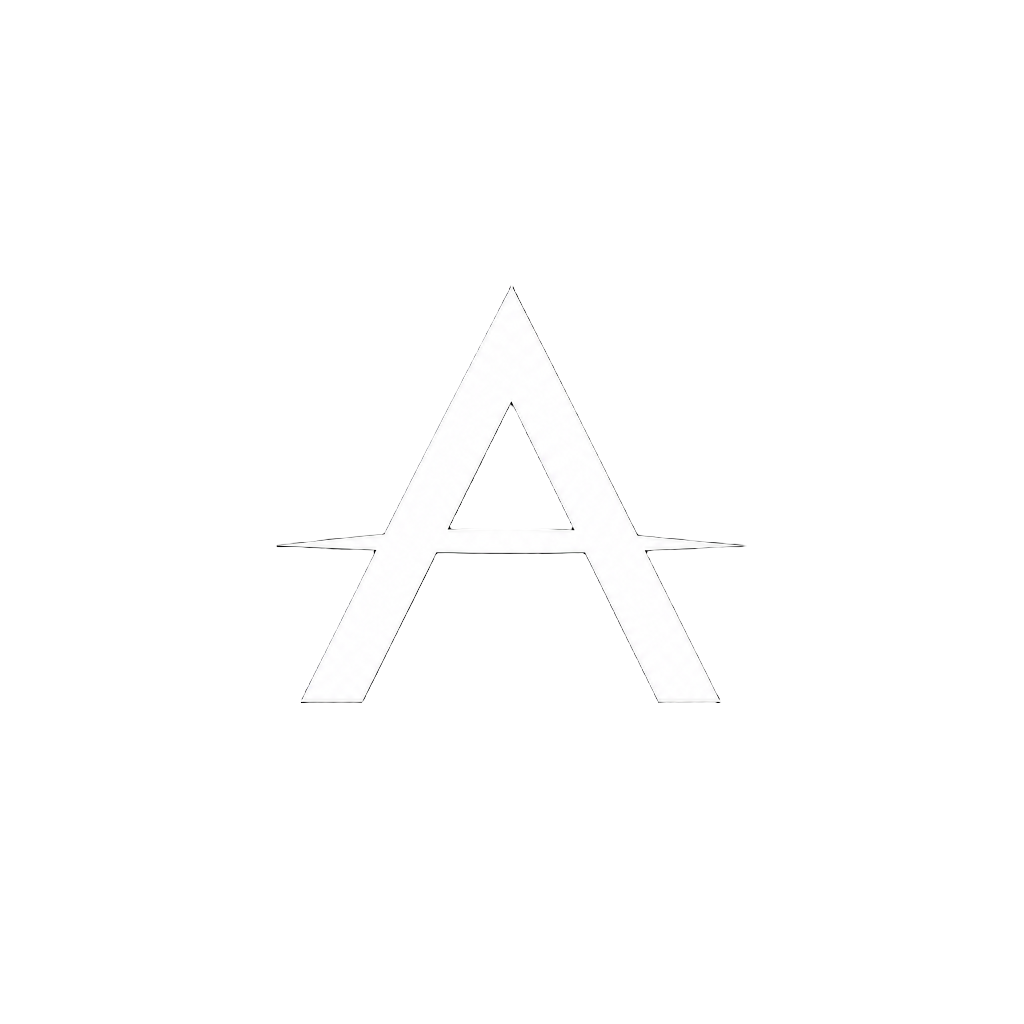
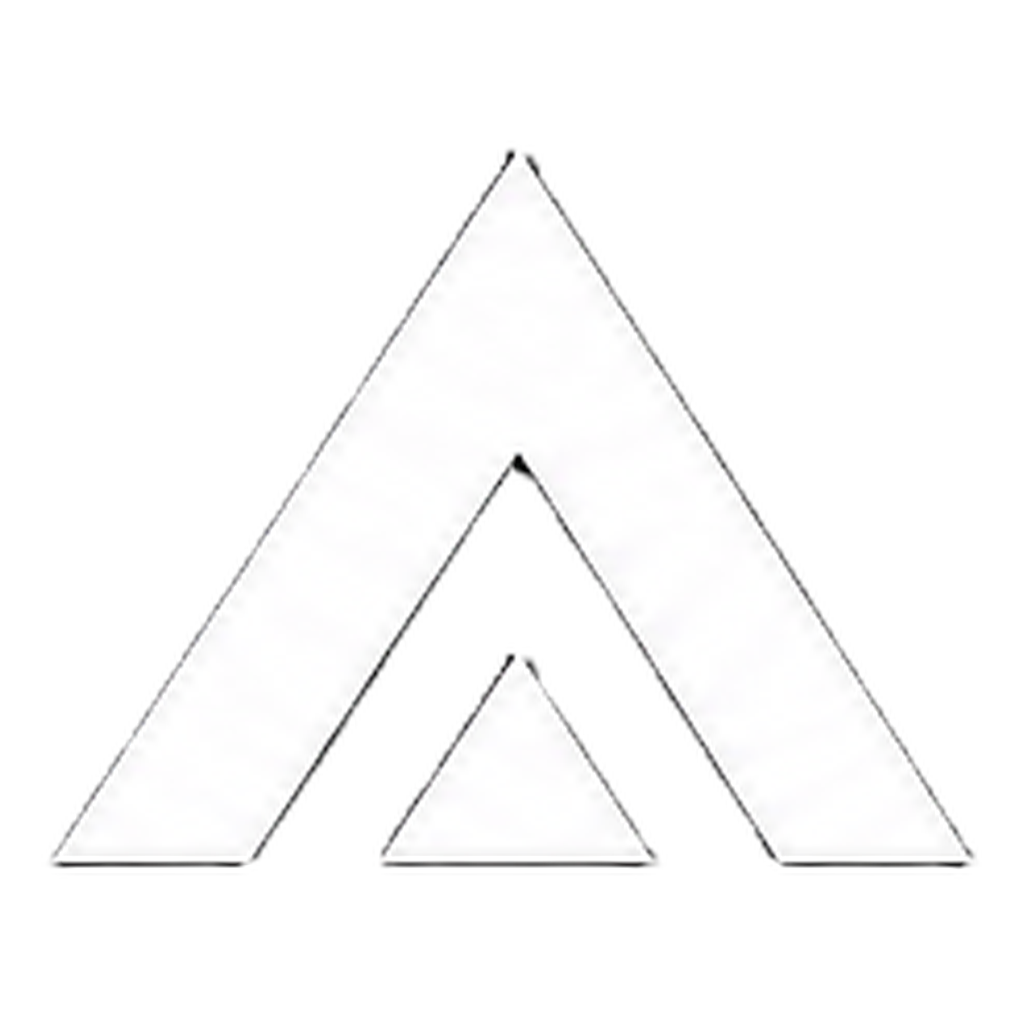
Changes

diff --git a/src/components/aurora/app-shell.tsx b/src/components/aurora/app-shell.tsx
@@ -37,6 +37,7 @@ import {
 } from "@/lib/aurora.functions";
 import { supabase } from "@/integrations/supabase/client";
 import { cn } from "@/lib/utils";
+import auroraIcon from "@/assets/aurora-icon.png";
 
 type Conversation = {
   id: string;
@@ -158,7 +159,7 @@ export function AppShell({
   const sidebar = (
     <aside className="relative flex h-full w-full flex-col bg-sidebar text-sidebar-foreground">
       <div className="flex items-center justify-between px-4 pb-3 pt-[max(env(safe-area-inset-top),1rem)] md:px-5 md:pb-4 md:pt-[max(env(safe-area-inset-top),1.25rem)]">
-        <div className="grid size-8 place-items-center rounded-full border border-sidebar-foreground text-xs font-semibold md:size-9 md:text-sm">A</div>
+        <img src={auroraIcon} alt="Aurora" className="size-8 object-contain md:size-9" />
         <div className="flex gap-1">
           <button
             type="button"
